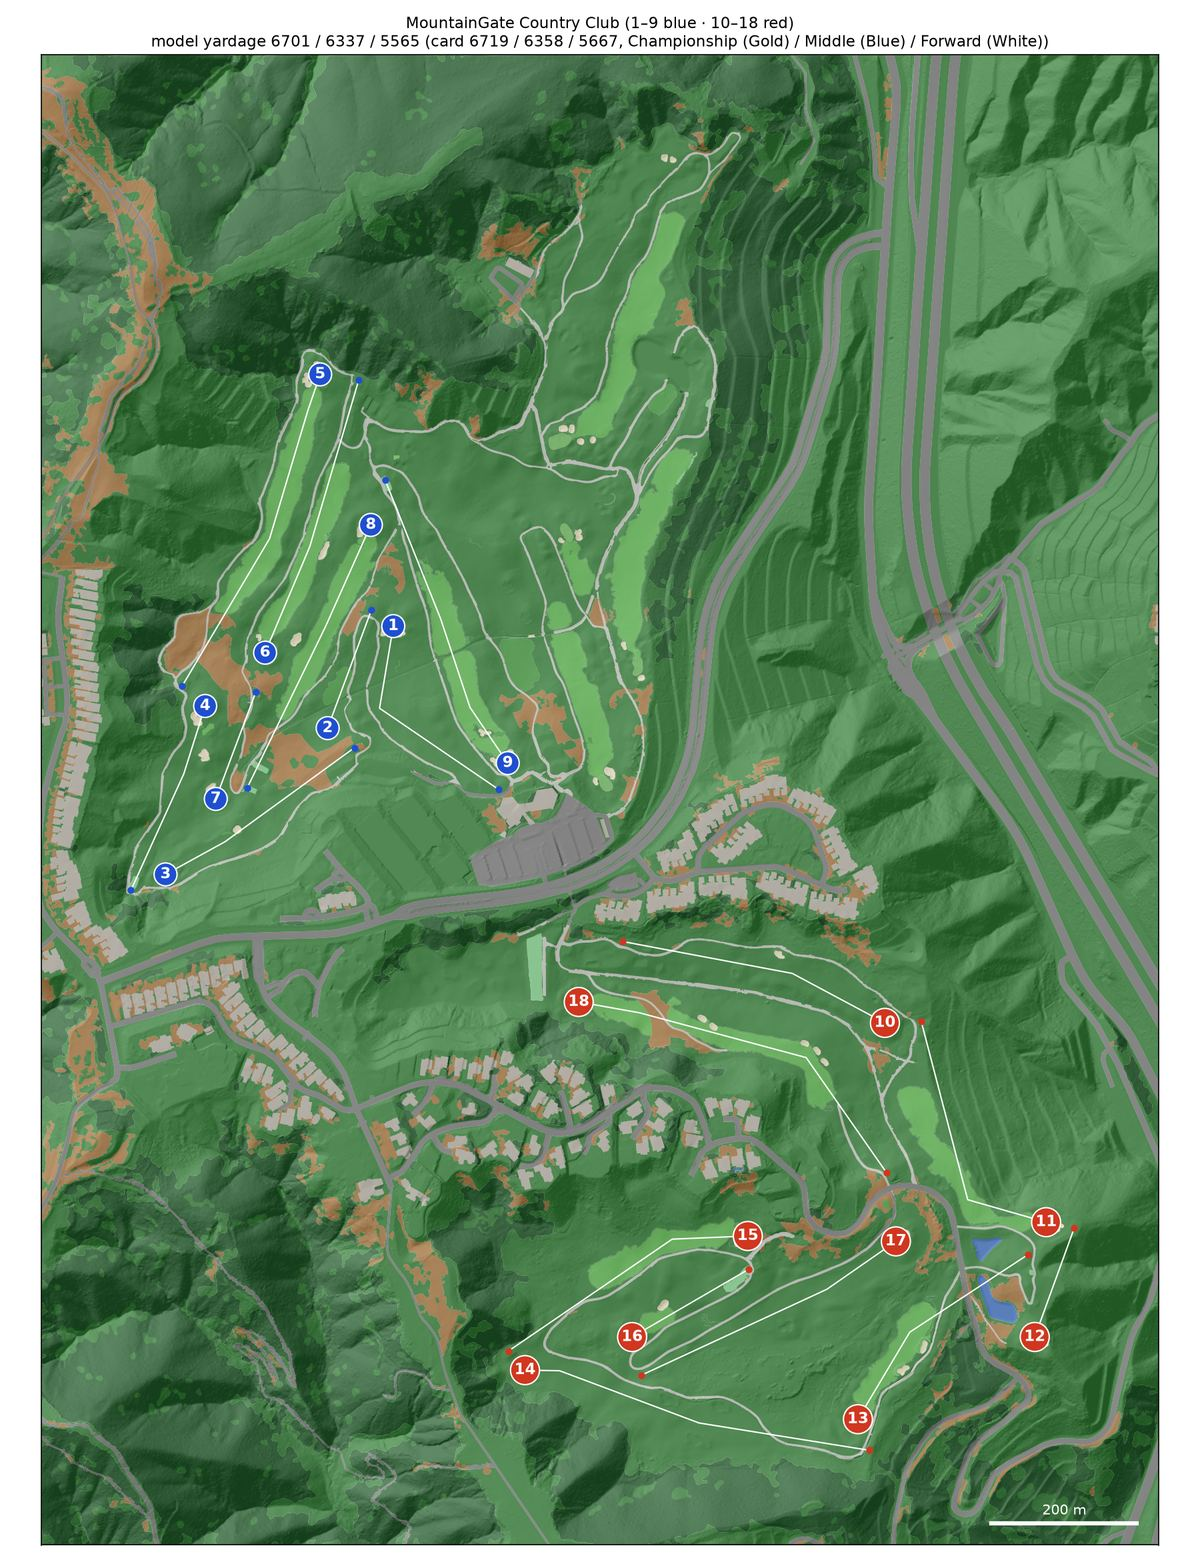
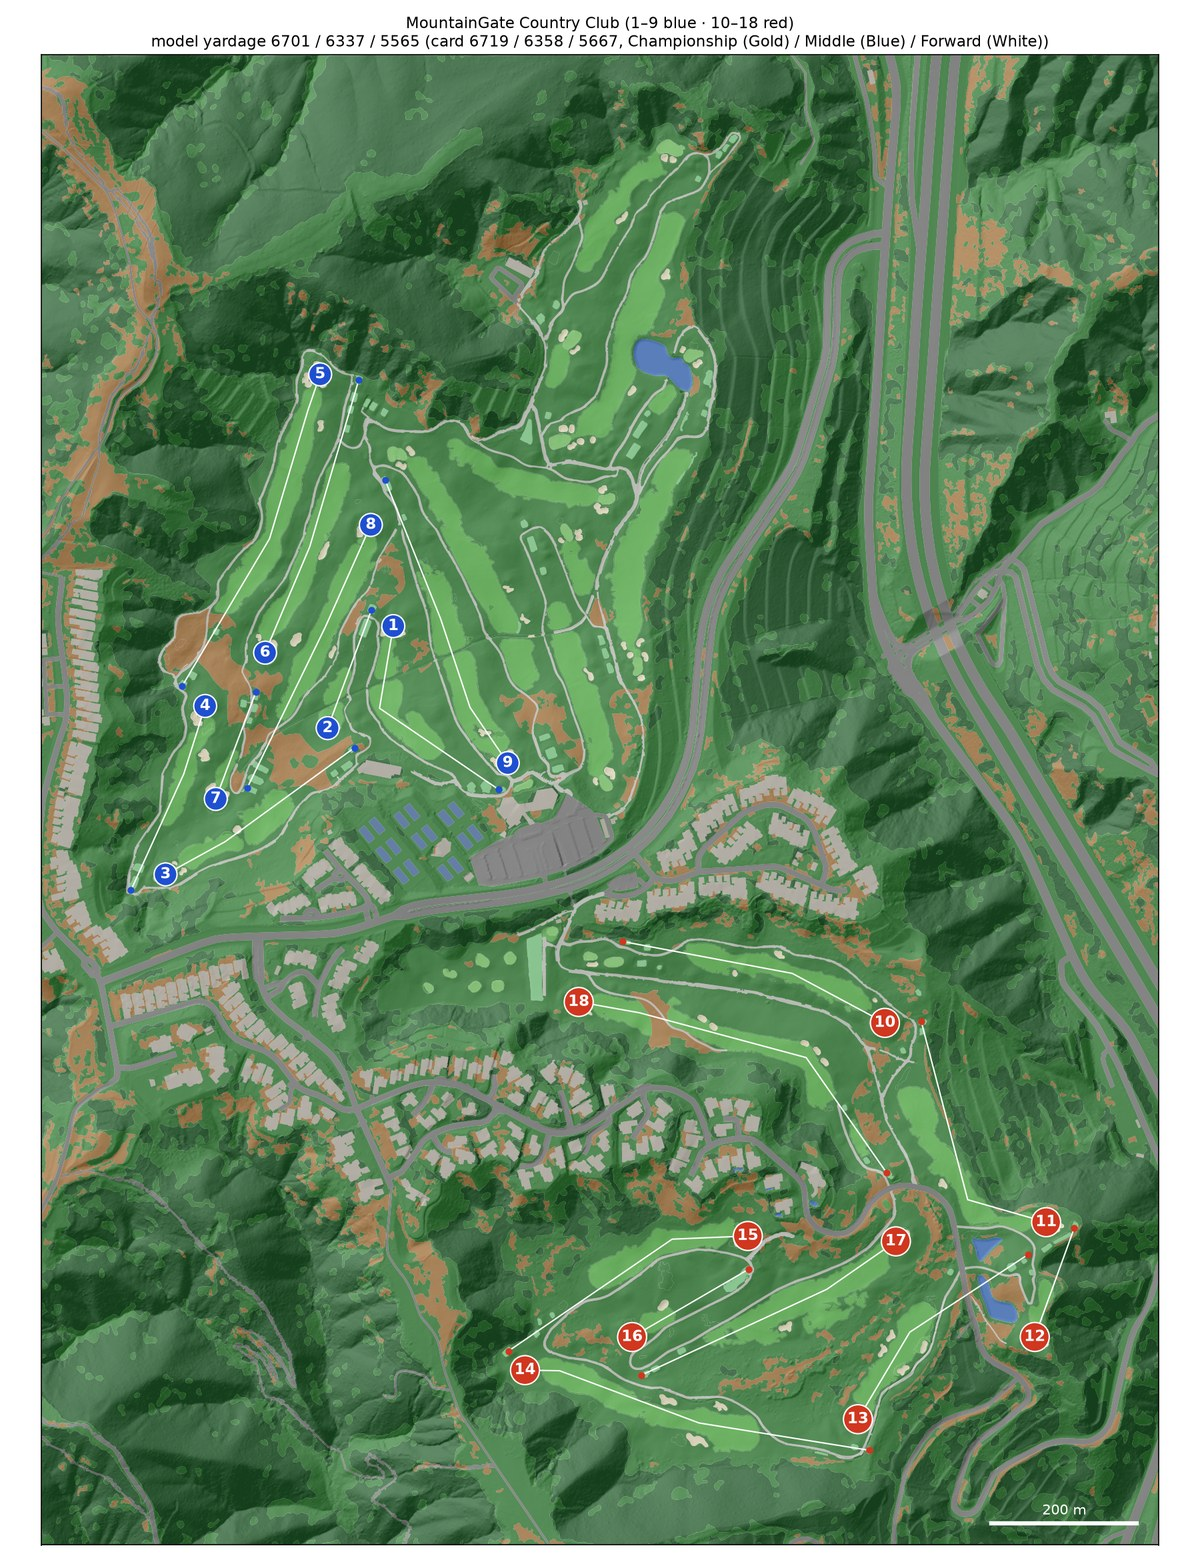
MountainGate: README after the rebuild on the engine fixes
Rebuilt end to end on this branch with Blender 4.2.23 LTS (Apple M5 Max): test_course 139 passed, 4 skipped, none
failed (was 138 passed, 1 failed on the empty pOOB). The four engine items are moved from 'Left for the engine' to
the fixes; holes 4 and 6-10 list the bunkers without their lip strips (yardages unchanged); the OB limitation says
what the ring follows now. The course map is redrawn by make_maps with the surfaces' holes (#20): the old one showed
mostly rough. The QA brief says what the engine now does with paths past the outline and bunker strips.

diff --git a/courses/mountaingate/README.md b/courses/mountaingate/README.md
@@ -47,13 +47,13 @@ brackets where they differ by more than 6 yd. On holes 5, 10, 17 and 18 no real 
 | 1 | 4 | 16 | 342 | 323 | 307 | 21 × 15 | -12 m | 2 bunker, 3 native_area |
 | 2 | 3 | 10 | 189 | 169 | 153 | 13 × 28 | +3 m | 1 bunker, 4 native_area |
 | 3 | 4 | 6 | 342 | 323 | 298 | 37 × 16 | +17 m | 4 bunker, 2 native_area |
-| 4 | 4 | 18 | 299 | 289 | 266 | 29 × 12 | -10 m | 3 bunker, 1 native_area |
+| 4 | 4 | 18 | 299 | 289 | 266 | 29 × 12 | -10 m | 2 bunker, 1 native_area |
 | 5 | 5 | 8 | 516 | 498 | 423 (467) | 21 × 27 | -5 m | 4 bunker, 5 native_area |
-| 6 | 4 | 2 | 434 | 408 | 363 | 22 × 25 | -4 m | 4 bunker, 2 native_area |
-| 7 | 3 | 14 | 172 | 153 | 131 | 28 × 16 | +0 m | 4 bunker, 7 native_area |
-| 8 | 4 | 4 | 437 | 420 | 401 | 29 × 24 | -9 m | 3 bunker, 10 native_area |
-| 9 | 5 | 12 | 466 | 453 | 403 | 24 × 14 | +9 m | 4 bunker, 5 native_area |
-| 10 | 4 | 15 | 417 | 390 | 358 (366) | 33 × 23 | -35 m | 5 bunker, 3 native_area |
+| 6 | 4 | 2 | 434 | 408 | 363 | 22 × 25 | -4 m | 3 bunker, 2 native_area |
+| 7 | 3 | 14 | 172 | 153 | 131 | 28 × 16 | +0 m | 2 bunker, 7 native_area |
+| 8 | 4 | 4 | 437 | 420 | 401 | 29 × 24 | -9 m | 2 bunker, 10 native_area |
+| 9 | 5 | 12 | 466 | 453 | 403 | 24 × 14 | +9 m | 3 bunker, 5 native_area |
+| 10 | 4 | 15 | 417 | 390 | 358 (366) | 33 × 23 | -35 m | 4 bunker, 3 native_area |
 | 11 | 4 | 1 | 400 | 387 | 364 | 26 × 19 | +1 m | 4 bunker, 6 native_area, 1 water |
 | 12 | 3 | 13 | 174 | 153 | 97 | 27 × 21 | -3 m | 3 bunker, 4 native_area, 1 water |
 | 13 | 4 | 9 | 365 | 356 | 219 | 20 × 35 | +2 m | 5 bunker, 14 native_area, 2 water |
@@ -118,20 +118,24 @@ Fixed by overrides:
   decks, markers on the real decks (tee locks on 9 holes);
 * fairway, path and rough corrections from rounds 1 and 2; the dogleg aim points on holes 1 and 15.
 
+Fixed in the engine (the course rebuilt on it, 2026-10-18):
+
+* GreenKeeper's OB ring (`pOOB`) was empty: the course's OSM outline is two rings (a multipolygon) 126 m apart. The ring
+  now follows both, joined by a 1 m bridge where they come closest, so the ground between them stays out of bounds;
+* OSM cart paths mapped as golf paths stay cart path past the club's leisure=golf_course outline (1,611 m², the 593 m²
+  path behind the hole 1 tees among it): the outline is narrower than the club's land;
+* automatic tee pads on OSM tees get a LiDAR check: hole 5's converted pads (8.6-10.4 %, no bank) are no tees any more;
+* thin automatic bunker strips along the lips of drawn bunkers (nine, 0.5-1.7 m wide) go to the grass beside them:
+  holes 4 and 6-10 list one or two bunkers fewer.
+
 Left for the engine (seen on several holes):
 
-* OSM cart paths outside the club's leisure=golf_course outline become road (the 593 m² path behind the hole 1 tees);
-  the outline is narrower than the club's land;
-* thin automatic bunker slivers left along the lips of drawn bunkers, each a tiny hazard in holes.json;
-* automatic tee pads taken from OSM tees without a LiDAR deck check (hole 5's converted pads);
 * canyon woodland and chaparral split between rough and deep rough (rough with a 2.5 m canopy on holes 10-12);
 * aim points kept on bends of 2-4 degrees;
 * surfaces take their colour from the photo, so the bunkers built after May 2024 (hole 16's approach and front-left
   bunkers, hole 18's five second-leg and corner bunkers) render olive, where the photo still shows turf; deep tree
   shadow in the photo comes out as dark blue-grey blotches on the canyon walls (holes 13, 14, 16, 18) and makes the
-  shaded path left of the hole 4 tees read as water;
-* GreenKeeper's OB ring (`pOOB`) is empty: the course's OSM outline is two rings (a multipolygon), and the engine takes
-  the ring from a single-polygon outline only. `test_greenkeeper_gkd_hints` fails on it.
+  shaded path left of the hole 4 tees read as water.
 
 ## Known limitations
 
@@ -145,8 +149,10 @@ Left for the engine (seen on several holes):
   bunker, the new path from the hole 16 junction to the hole 15 green). The model follows the 2025 LiDAR there, but the
   photo texture still shows the old ground. Holes 16 and 18 score 6 of 10 in the viewer review for it
   (every other hole 7-9).
-* **OB and penalty areas** are not modelled (see the QA list for the empty `pOOB`); the original build's are in
-  [research/](research/) for the GreenKeeper work.
+* **OB and penalty areas.** GreenKeeper's OB ring (`pOOB`) follows the OSM outline, 72 ha, narrower than the club's
+  land: the original build's perimeter, from the parcels, takes in 110 ha. Internal OB and penalty areas are not
+  modelled; the original build's are in [research/](research/) (`ob.geojson`, `penalty_areas.geojson`) for the
+  GreenKeeper work.
 * **Buildings.** OSM footprints with LiDAR-fitted roofs. Where a building stands on a slope, its wall runs down to the
   ground below it (the condominiums above hole 10), and the clubhouse shows its LiDAR roof as a faceted sheet above the parapet. The backdrop has no trees or buildings (no public DSM).
 * **Trees** are inferred from LiDAR structure and the photo's crown colour (coast live oak, Aleppo pine, sycamore,
@@ -166,7 +172,11 @@ about 1.5 GB (LiDAR 1.05 GB in 9 tiles, Poly Haven textures 212 MB, backdrop pho
 DEM 14 MB). Measured on a
 MacBook Pro (Apple M2 Max, 12 cores, 32 GB, macOS 27.0.1; 2026-10-17, Blender 4.2.23 LTS), downloads in place: about
 55 minutes from the step times, most of it vectorize (28 min) and rasters (11 min); the first backdrop run also downloads
-its photos (6 min here). Peak memory 7.3 GB (rasters and vectorize); mesh 5.9 GB, export 5.1 GB, gspro 3.8 GB.
+its photos (6 min here). Peak memory 7.3 GB (rasters and vectorize); mesh 5.9 GB, export 5.1 GB, gspro 3.8 GB. On an
+Apple M5 Max (18 cores, 64 GB, macOS 27.0.1; 2026-10-18, Blender 4.2.23 LTS): about 64 minutes, vectorize 29 min,
+rasters 11 min, gspro 9 min, backdrop 3 min with its photos; peak memory 7.5 GB (rasters and mesh), vectorize 7.3 GB,
+export 4.8 GB, gspro 3.8 GB. The 3DEP LiDAR server (rockyweb.usgs.gov) can be slow, under 0.1 MB/s a connection:
+the nine tiles took about an hour.
 
 ```bash
 export COURSE=mountaingate
@@ -174,6 +184,6 @@ export COURSE=mountaingate
 .venv/bin/python scripts/fetch_textures.py
 .venv/bin/python scripts/fetch_backdrop.py
 BLENDER=/path/to/blender-4.2 .venv/bin/python scripts/build_all.py   # Blender 4.2 LTS (macOS default: /Applications/Blender.app)
-.venv/bin/python -m pytest -q --course mountaingate tests/test_course.py   # 138 passed, 1 failed (pOOB), 4 skipped (Westmount-only)
+.venv/bin/python -m pytest -q --course mountaingate tests/test_course.py   # 139 passed, 4 skipped (Westmount-only)
 python3 scripts/devserver.py 8765   # then open http://localhost:8765/viewer/?course=mountaingate#h1-tee
 ```

diff --git a/courses/mountaingate/research/qa_brief.md b/courses/mountaingate/research/qa_brief.md
@@ -26,7 +26,7 @@ front: Championship (Gold), Middle (Blue), Forward (White), markers labelled C, 
   starting with the LiDAR evidence); where the LiDAR and the photo disagree on a bunker or a green edge, trust the LiDAR.
 * OSM maps all 27 holes, greens, tees, fairways, bunkers, two ponds (one in play, in front of the hole 13 back tee) and
   44 cart paths. The photo path tracer is off (`[tuning] trace_paths = false`). The club's leisure=golf_course relation
-  is narrower than its land: cart paths beyond it may come out as road.
+  is narrower than its land: beyond it, paths OSM maps as golf paths stay cart path, other paths come out as road.
 * Between the holes: canyons of chaparral (deep rough) and summer-dry native grass (native). They are scenery, not
   rough: a hillside the classifier made rough or semirough is a QA matter where it is in play.
 
@@ -34,8 +34,8 @@ front: Championship (Gold), Middle (Blue), Forward (White), markers labelled C, 
 
 * The bunker renovation (between the 2022 photo and the 2025 LiDAR; bunkers reshaped, moved, removed and added; some green edges rebuilt) and the native
   conversions: in the LiDAR, and in the photo except the South-nine work listed above. Rounds 1 and 2 were drawn on
-  another photo (below), 1-4 m off the NAIP 2024 classification in places: small tee and bunker slivers can survive
-  beside their overrides.
+  another photo (below), 1-4 m off the NAIP 2024 classification in places: small tee slivers, and bunker remnants
+  over 2 m wide, can survive beside their overrides (the engine gives narrower bunker strips to the grass).
 
 ## Open questions
 
